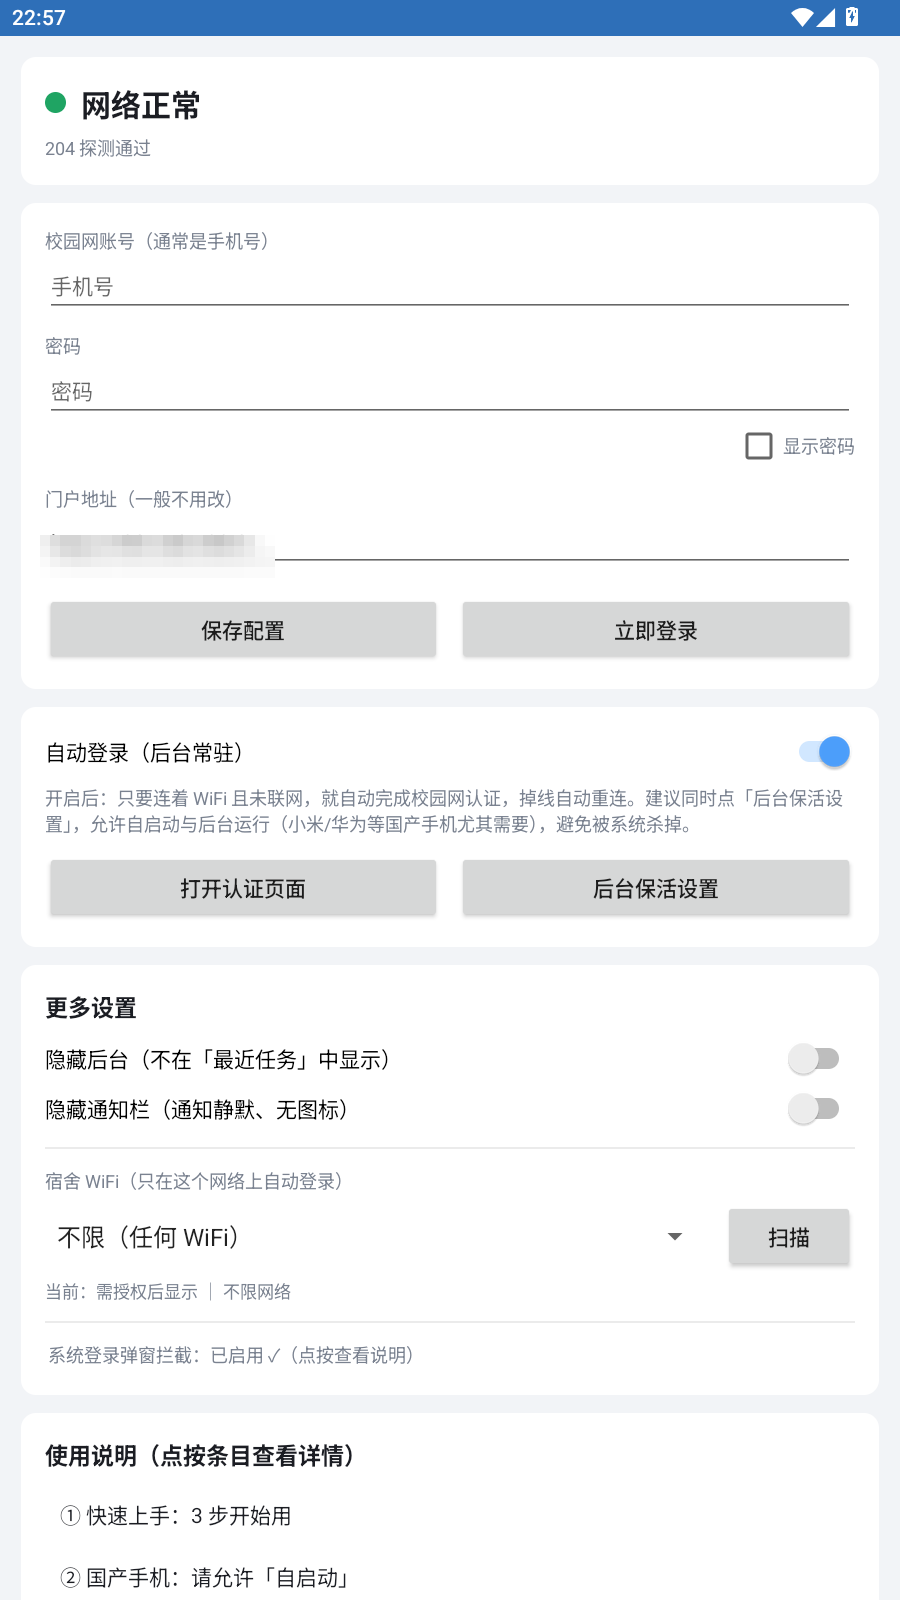
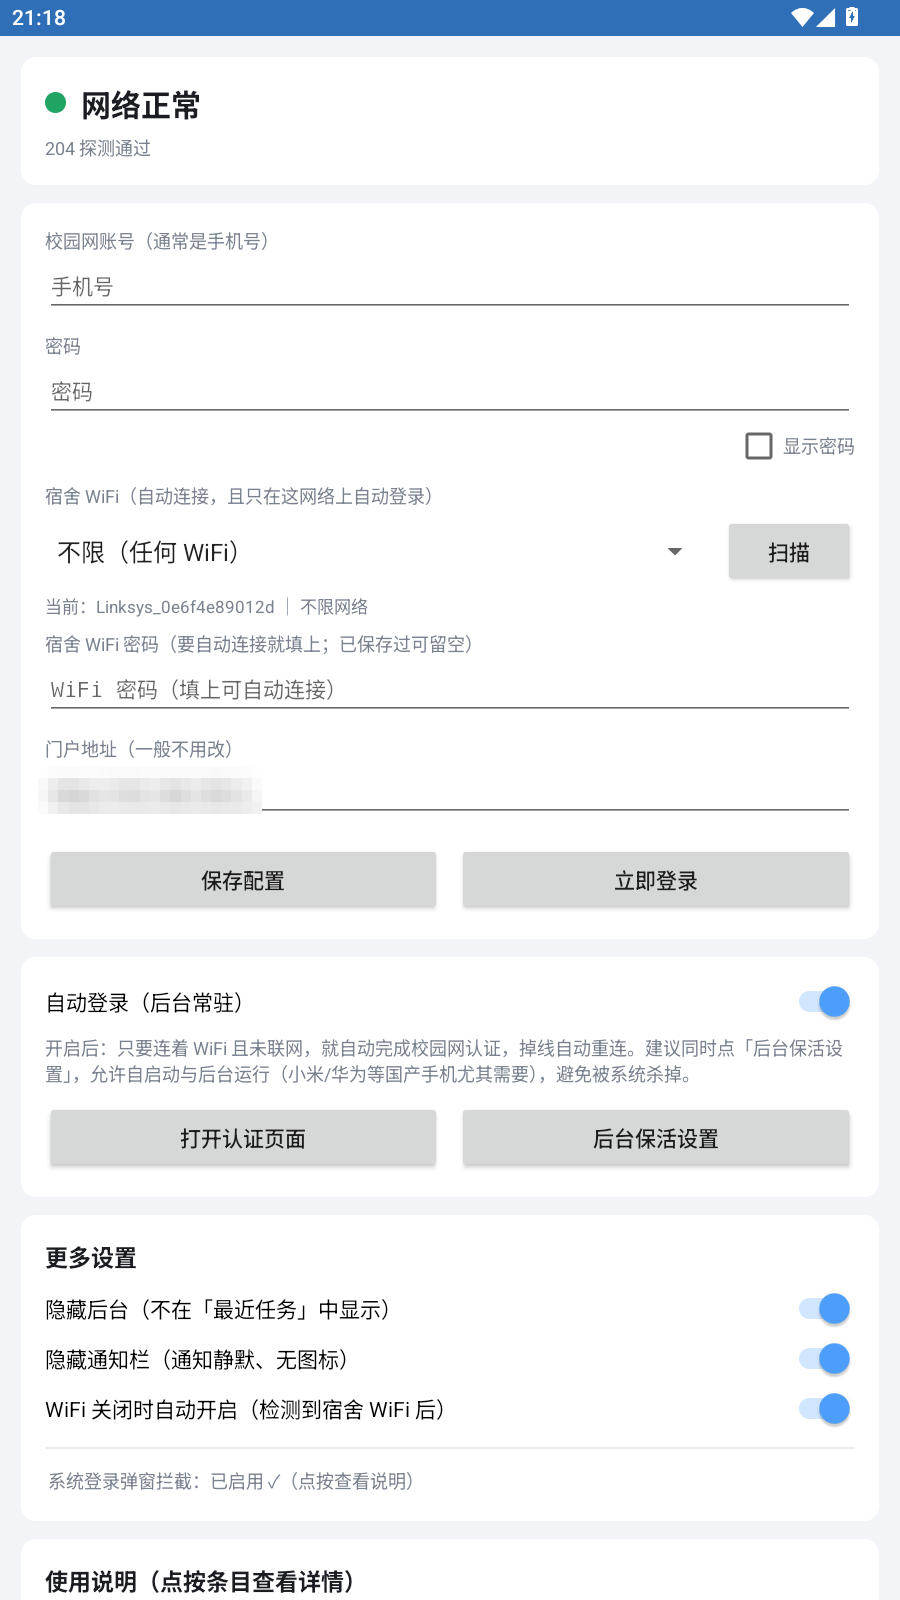
fix(android): Spinner 异步回调导致重复触发选择逻辑
- 用「值比对」代替 spLoading 布尔标记：Spinner 的 onItemSelected 是异步派发的，
  初始化/扫描重建时 spLoading 已复位，会把同值当新选择重复记日志、重复同步推荐
- 实测确认：修复后开 App 不再重复打「宿舍 WiFi 选择：X」
- 同步更新 README 界面截图（v1.2.0 实机竖屏）

diff --git a/android/src/com/mounttai/giwifi/MainActivity.java b/android/src/com/mounttai/giwifi/MainActivity.java
@@ -43,7 +43,7 @@ public class MainActivity extends Activity {
     private TextView tvWifiState, tvGuard;
     private ArrayAdapter<String> wifiAdapter;
     private final List<String> wifiItems = new ArrayList<>();
-    private boolean spLoading = false;
+    private String spinnerLast = null;   // 抑制 Spinner 初始化/重建时的重复回调
     private String wifiAnyLabel = "";
     private int tickCount = 0;
     private Prefs prefs;
@@ -143,8 +143,10 @@ public class MainActivity extends Activity {
         spWifi.setOnItemSelectedListener(new AdapterView.OnItemSelectedListener() {
             @Override
             public void onItemSelected(AdapterView<?> parent, View view, int position, long id) {
-                if (spLoading) return;
+                if (position < 0 || position >= wifiItems.size()) return;
                 String v = wifiItems.get(position);
+                if (v.equals(spinnerLast)) return;   // 值与上次相同 = 初始/重建触发，忽略
+                spinnerLast = v;
                 boolean any = v.equals(wifiAnyLabel);
                 prefs.setWifiSsid(any ? "" : v);
                 AppLog.add(any ? "宿舍 WiFi 选择：不限" : "宿舍 WiFi 选择：" + v);
@@ -156,7 +158,6 @@ public class MainActivity extends Activity {
             @Override
             public void onNothingSelected(AdapterView<?> parent) { }
         });
-        spLoading = true;
         wifiItems.add(wifiAnyLabel);
         String savedSsid = prefs.wifiSsid();
         if (!savedSsid.isEmpty()) {
@@ -164,7 +165,7 @@ public class MainActivity extends Activity {
         }
         wifiAdapter.notifyDataSetChanged();
         spWifi.setSelection(savedSsid.isEmpty() ? 0 : 1);
-        spLoading = false;
+        spinnerLast = savedSsid.isEmpty() ? wifiAnyLabel : savedSsid;
         // 打开界面时也同步一次（覆盖「服务未运行」时留下的变更）
         WifiSuggester.syncIfChanged(this, prefs.wifiSsid(), prefs.wifiPassword());
         findViewById(R.id.btnScanWifi).setOnClickListener(v -> ensureWifiPermThenScan());
@@ -494,7 +495,6 @@ public class MainActivity extends Activity {
                     return;
                 }
                 String saved = prefs.wifiSsid();
-                spLoading = true;
                 wifiItems.clear();
                 wifiItems.add(wifiAnyLabel);
                 wifiItems.addAll(ff);
@@ -503,7 +503,6 @@ public class MainActivity extends Activity {
                 }
                 wifiAdapter.notifyDataSetChanged();
                 spWifi.setSelection(saved.isEmpty() ? 0 : Math.max(0, wifiItems.indexOf(saved)));
-                spLoading = false;
                 Toast.makeText(this, ff.isEmpty()
                         ? "没扫到网络：请确认「定位」开关已打开、且已授予权限"
                         : "扫描完成：共 " + ff.size() + " 个网络", Toast.LENGTH_LONG).show();
